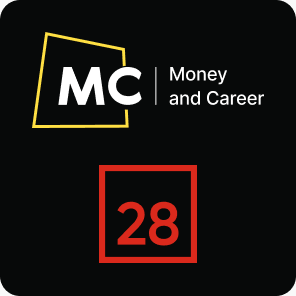
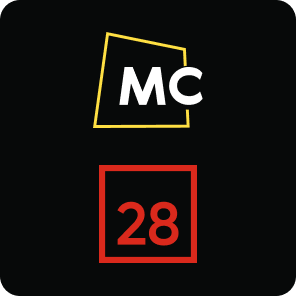
Case 1 card image + clickable hero tiles

Changed region(s): [[0.0912, 0.0912, 0.9122, 0.4561]]

diff --git a/index.html b/index.html
@@ -671,22 +671,22 @@
           <p>Governments, visionary companies and bold founders work with me when a transformation has to be irreversible.</p>
         </div>
         <div class="tiles">
-          <div class="ctile">
+          <a class="ctile" href="https://www.linkedin.com/in/valeriyaionan/" target="_blank" rel="noopener">
             <div>
               <div class="ic"><svg width="24" height="24" viewBox="0 0 24 24" fill="#fff"><path d="M22.2234 0H1.77187C0.792187 0 0 0.773438 0 1.72969V22.2656C0 23.2219 0.792187 24 1.77187 24H22.2234C23.2031 24 24 23.2219 24 22.2703V1.72969C24 0.773438 23.2031 0 22.2234 0ZM7.12031 20.4516H3.55781V8.99531H7.12031V20.4516ZM5.33906 7.43438C4.19531 7.43438 3.27188 6.51094 3.27188 5.37187C3.27188 4.23281 4.19531 3.30937 5.33906 3.30937C6.47813 3.30937 7.40156 4.23281 7.40156 5.37187C7.40156 6.50625 6.47813 7.43438 5.33906 7.43438ZM20.4516 20.4516H16.8937V14.8828C16.8937 13.5563 16.8703 11.8453 15.0422 11.8453C13.1906 11.8453 12.9094 13.2938 12.9094 14.7891V20.4516H9.35625V8.99531H12.7687V10.5609H12.8156C13.2891 9.66094 14.4516 8.70938 16.1813 8.70938C19.7859 8.70938 20.4516 11.0813 20.4516 14.1656V20.4516Z"/></svg></div>
               <h3>Follow Me on LinkedIn</h3>
               <p>For the work in progress: frontier government, agentic state, defense-tech, innovations and global partnerships.</p>
             </div>
-            <a class="cta" href="https://www.linkedin.com/in/valeriyaionan/" target="_blank" rel="noopener">Follow</a>
-          </div>
-          <div class="ctile">
+            <span class="cta">Follow</span>
+          </a>
+          <a class="ctile" href="mailto:[email redacted]">
             <div>
               <div class="ic"><svg width="24" height="24" viewBox="0 0 22 18" fill="none" stroke="#fff" stroke-width="2" stroke-linecap="round" stroke-linejoin="round"><path d="M20.5 15 13.857 9M8.143 9 1.5 15M1 4l8.165 5.715c.661.463.992.695 1.351.784.318.08.65.08.968 0 .36-.09.69-.32 1.351-.784L21 4M5.8 17h10.4c1.68 0 2.52 0 3.162-.327a3 3 0 0 0 1.311-1.311C21 14.72 21 13.88 21 12.2V5.8c0-1.68 0-2.52-.327-3.162a3 3 0 0 0-1.311-1.311C18.72 1 17.88 1 16.2 1H5.8c-1.68 0-2.52 0-3.162.327a3 3 0 0 0-1.311 1.311C1 3.28 1 4.12 1 5.8v6.4c0 1.68 0 2.52.327 3.162a3 3 0 0 0 1.311 1.311C3.28 17 4.12 17 5.8 17Z"/></svg></div>
               <h3>Need to talk about something specific?</h3>
               <p>Book a strategic conversation.</p>
             </div>
-            <a class="cta" href="mailto:[email redacted]">[email redacted]</a>
-          </div>
+            <span class="cta">[email redacted]</span>
+          </a>
         </div>
       </div>
     </div>